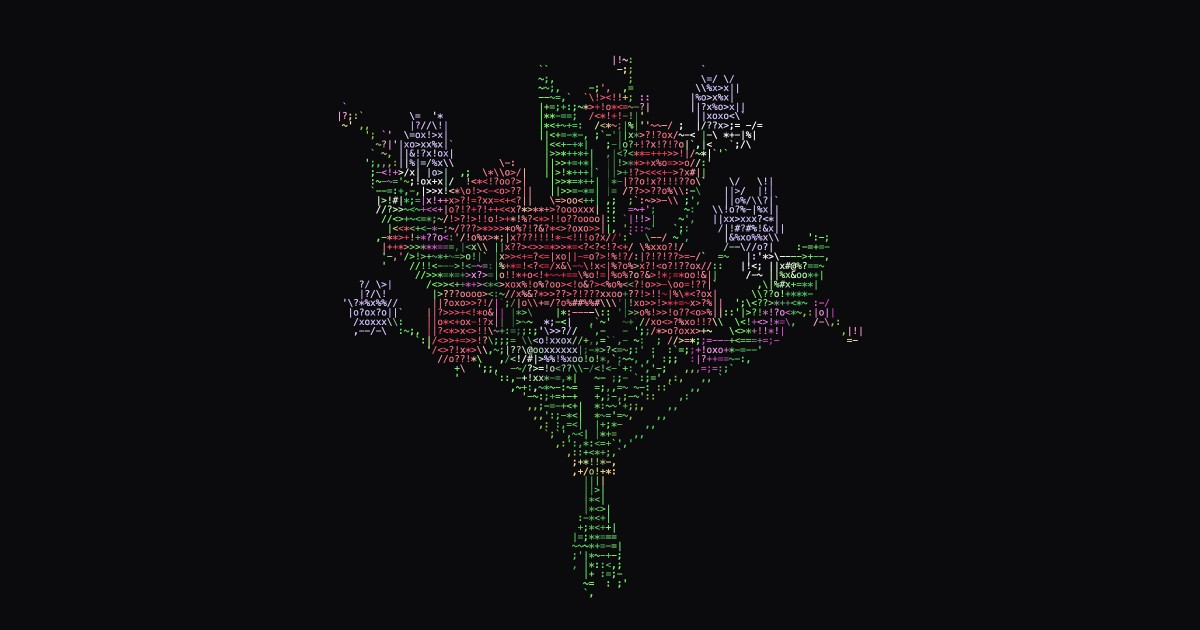
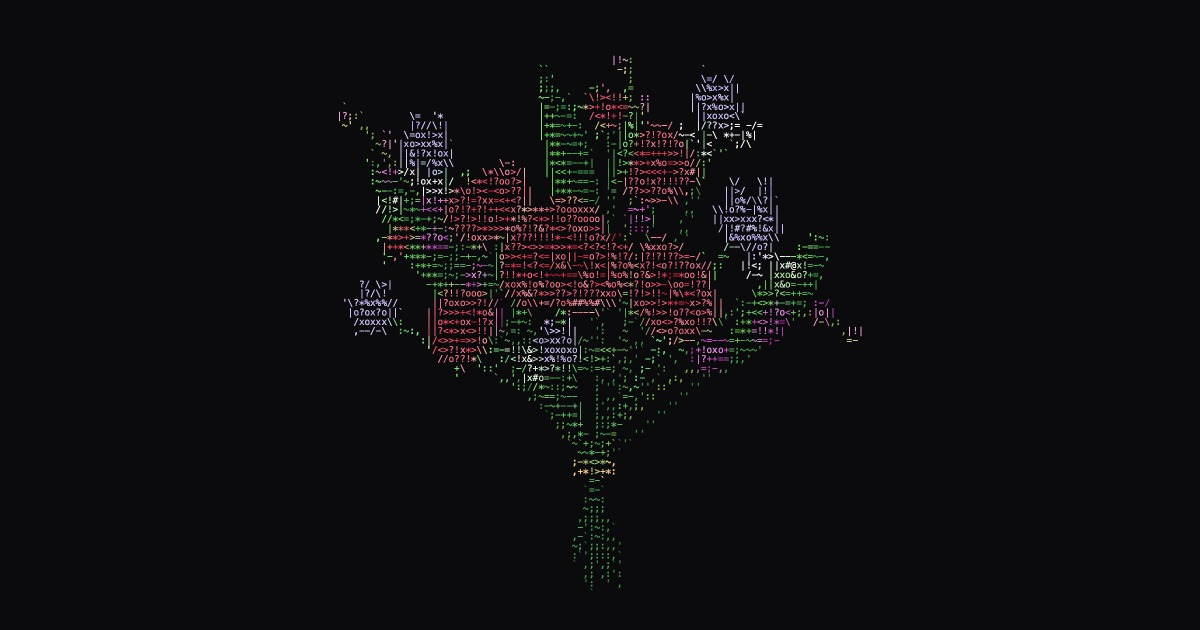
Regenerate the link-preview image
Re-rendered at 1200x630 from the current (brighter, sharper, shaded)
bouquet, and versioned as og.jpg?v=2 so apps that cached the old preview
fetch the new one.

diff --git a/index.html b/index.html
@@ -7,7 +7,7 @@
 <meta name="theme-color" content="#0b0a0d">
 <meta property="og:title" content="For Aria">
 <meta property="og:description" content="A bouquet of Thai love flowers, grown from text characters.">
-<meta property="og:image" content="https://flowers.hemm.ing/og.jpg">
+<meta property="og:image" content="https://flowers.hemm.ing/og.jpg?v=2">
 <meta property="og:url" content="https://flowers.hemm.ing/">
 <meta name="twitter:card" content="summary_large_image">
 <link rel="apple-touch-icon" href="/apple-touch-icon.png?v=2">
